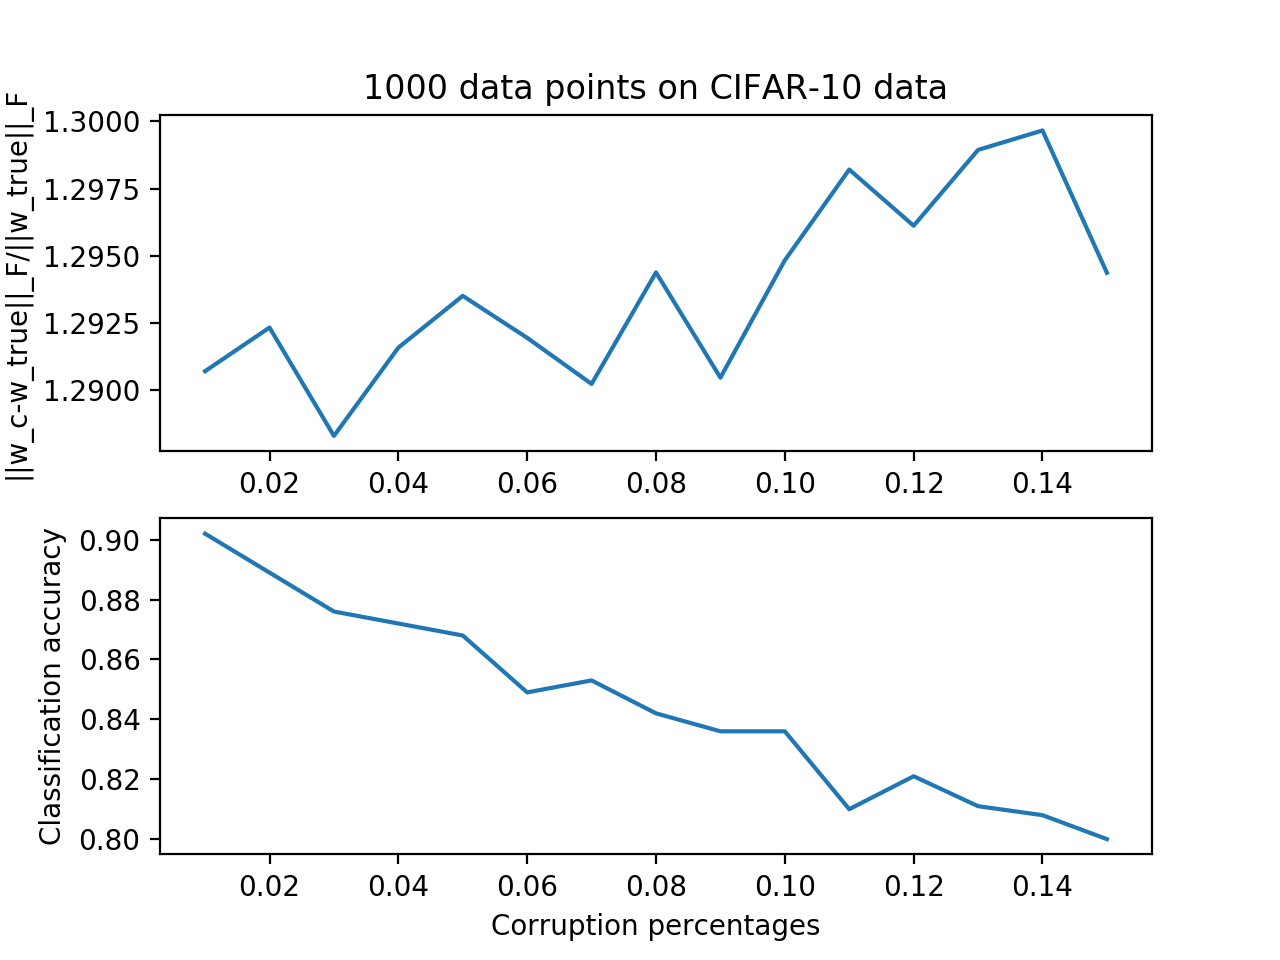
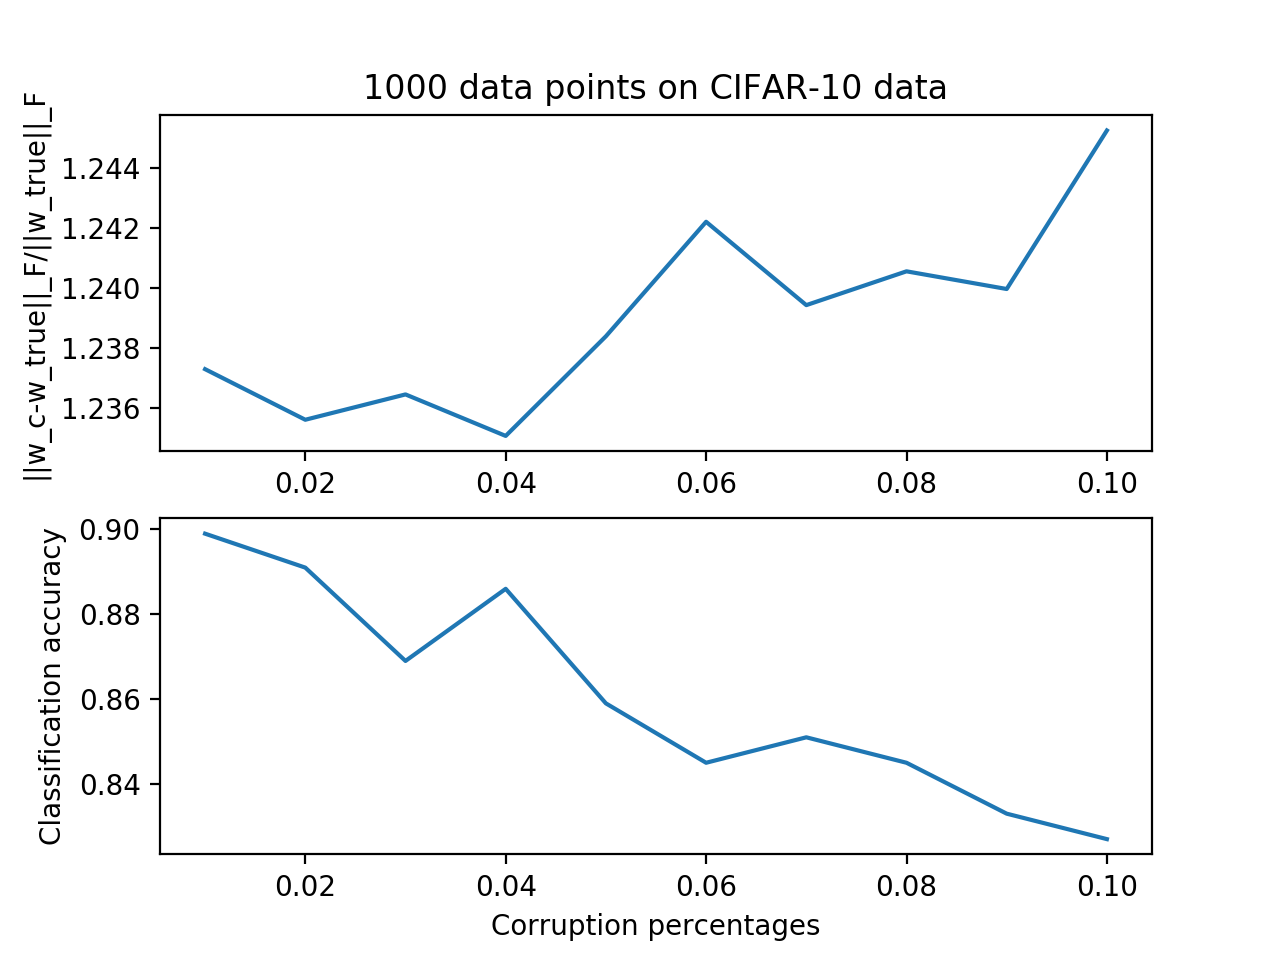
Add kernelization

diff --git a/Framework1/NumericalExperiments/Scratch.py b/Framework1/NumericalExperiments/Scratch.py
@@ -3,8 +3,11 @@ import math
 import torch
 import torchvision
 import matplotlib.pyplot as plt
+
 #from MulticlassLogReg import MulticlassLogReg
 #from CreateAgents import CreateAgents
+from Kernelize import Kernelize
+from sklearn.datasets import load_svmlight_file
 from sklearn.linear_model import LogisticRegression
 
 # Import Data using pytorch
@@ -29,34 +32,33 @@ for i in range(40000):
 for i in range(10000):
     test_data[i, :] = 0.3 * x_data[40000 + i][0].flatten() + 0.59 * x_data[40000 + i][1].flatten() + 0.11 * x_data[40000 + i][2].flatten()
 
-sk = LogisticRegression(random_state=0, solver='lbfgs', multi_class='multinomial', max_iter=2000).fit(train_data, train_label)
+degree = 2
+projection_dimension = int(1e4)
+final_dimension = int(2048)
+
+all_train_kern = Kernelize(train_data, degree, 1, projection_dimension, final_dimension)
+all_train_kern.poly_kern()
+kern_2 = all_train_kern.kernel
+
+all_test_kern = Kernelize(test_data, degree, 1, projection_dimension, final_dimension)
+all_test_kern.poly_kern()
+kern_2_test = all_test_kern.kernel
+
+sk = LogisticRegression(random_state=0, solver='lbfgs', multi_class='multinomial', max_iter=1000).fit(kern_2, train_label)
+
+pred = sk.predict(kern_2_test)
+
+print(sum(pred == test_label)/len(test_label))
+
 w_true = sk.coef_
 b_true = sk.intercept_
 
 w_true = np.concatenate((w_true.T, np.array([b_true])))
 
-#plt.imshow(train_data[0, :].reshape(32, 32), cmap=plt.get_cmap('gray'), interpolation='none')
-
-#w0 = np.random.rand(train_data.shape[1], 10)
-#b0 = np.random.rand(10)
-
-# Run multiclass logistic regression to get "w_true"
-#all_data_train = MulticlassLogReg(train_data, train_label, w0, b0, T=1000, tol=0.5, alpha=1e-2, lam1=1e-1, lam2=1e-1, num_classes=10)
-#all_data_train.grad_descent()
-#pred, prob = all_data_train.predict(test_data, all_data_train.w, all_data_train.b)
-#print('Accuracy: ', sum(pred == test_label)/len(pred))
-
-# Save "true" values for comparison
-#w_true = all_data_train.w
-#b_true = all_data_train.b
-#b_true_mean = b_true - np.mean(b_true)
-
-#w_true = np.concatenate((w_true, np.array([b_true_mean])), axis=0)
-
 w_seq = []
 corruptions_seq = []
 accuracy = []
-num_test = 1000
+num_test = 10000
 
 for i in range(1, 11):
 
@@ -65,7 +67,7 @@ for i in range(1, 11):
     y_corrupt = test_label[0:num_test].copy()
     y_corrupt[y_corrupt_ind] = corruptions
 
-    sk = LogisticRegression(random_state=0, solver='lbfgs', multi_class='multinomial', max_iter=2000).fit(test_data[0:num_test], y_corrupt)
+    sk = LogisticRegression(random_state=0, solver='lbfgs', multi_class='multinomial', max_iter=5000).fit(kern_2_test[0:num_test], y_corrupt)
     w = sk.coef_
     b = sk.intercept_
 
@@ -73,7 +75,7 @@ for i in range(1, 11):
 
     norm = np.linalg.norm(w - w_true, ord='fro')/np.linalg.norm(w_true, ord='fro')
 
-    pred = sk.predict(test_data[0:num_test])
+    pred = sk.predict(kern_2_test[0:num_test])
 
     acc = sum(pred == test_label[0:num_test]) / len(pred)
 
@@ -84,7 +86,7 @@ for i in range(1, 11):
 
 plt.subplot(211)
 plt.plot(corruptions_seq, w_seq)
-plt.title(str(len(test_label[0:num_test])) + ' data points on CIFAR-10 data')
+plt.title(str(len(kern_2_test[0:num_test])) + ' data points on CIFAR-10 data with polynomial kernel of degree ' + str(degree) + '\nFinal projected dimension: ' + str(final_dimension))
 plt.ylabel('||w_c-w_true||_F/||w_true||_F')
 plt.subplot(212)
 plt.plot(corruptions_seq, accuracy)

diff --git a/Framework1/NumericalExperiments/Kernelize.py b/Framework1/NumericalExperiments/Kernelize.py
@@ -1,0 +1,75 @@
+# ----------------------------------
+# Kernelization of input data
+#
+#
+# Author: Gabe Mancino
+# ----------------------------------
+
+# Import necessary packages
+
+import math
+import numpy as np
+
+class Kernelize:
+
+    def __init__(self, x, deg, shift, proj_dim, final_dim):
+
+        self.data = x
+        self.deg = deg
+        self.shift = shift
+        self.proj_dim = proj_dim
+        self.final_dim = final_dim
+
+    def poly_kern(self):
+
+        print('[INFO] Kernelization beginning...\n[INFO] Performing degree ', self.deg, ' polynomial kernelization with bias ', self.shift, '.')
+
+        [n, d] = self.data.shape
+
+        if self.proj_dim < d:
+            print('[INFO] Project into a higher dimension than the data lies in.\n')
+            return
+
+        # Make a bias vector of dimension (1 x n)
+        shift = (1 / math.sqrt(self.shift)) * np.array([np.ones(n)])
+
+        # Concatenate to original matrix before undergoing transformation
+        self.data = np.concatenate((self.data, shift.T), axis=1)
+
+        # Compute approximate kernel mapping
+        for i in range(self.deg):
+
+            print('[INFO] Working on iteration ', i, ' for Kernelization...')
+
+            if i == 0:
+                # Generate random sign matrix
+                w1 = np.random.randint(0, 2, size=(self.proj_dim, d + 1))
+                w2 = w1 - 1
+                w = w1 + w2
+
+                # Compute mapping
+                w_data = np.dot(w, np.transpose(self.data))
+
+
+            else:
+                w_old = w_data
+
+                # Generate random sign matrix
+                w1 = np.random.randint(0, 2, size=(self.proj_dim, d + 1))
+                w2 = w1 - 1
+                w = w1 + w2
+
+                # Compute mapping
+                w_data =  np.dot(w, np.transpose(self.data))
+
+                w_data = np.multiply(w_data, w_old)
+
+        print('[INFO] Projecting into lower dimensional space by using the JLT lemma...')
+
+        r = (1 / math.sqrt(self.final_dim)) * np.random.normal(0, 1, size=(self.final_dim, w_data.shape[0]))
+
+        self.kernel = np.dot(r, (1 / math.sqrt(self.proj_dim)) * w_data).T
+
+        print('[INFO] Kernelization complete.')
+
+        return self.kernel
